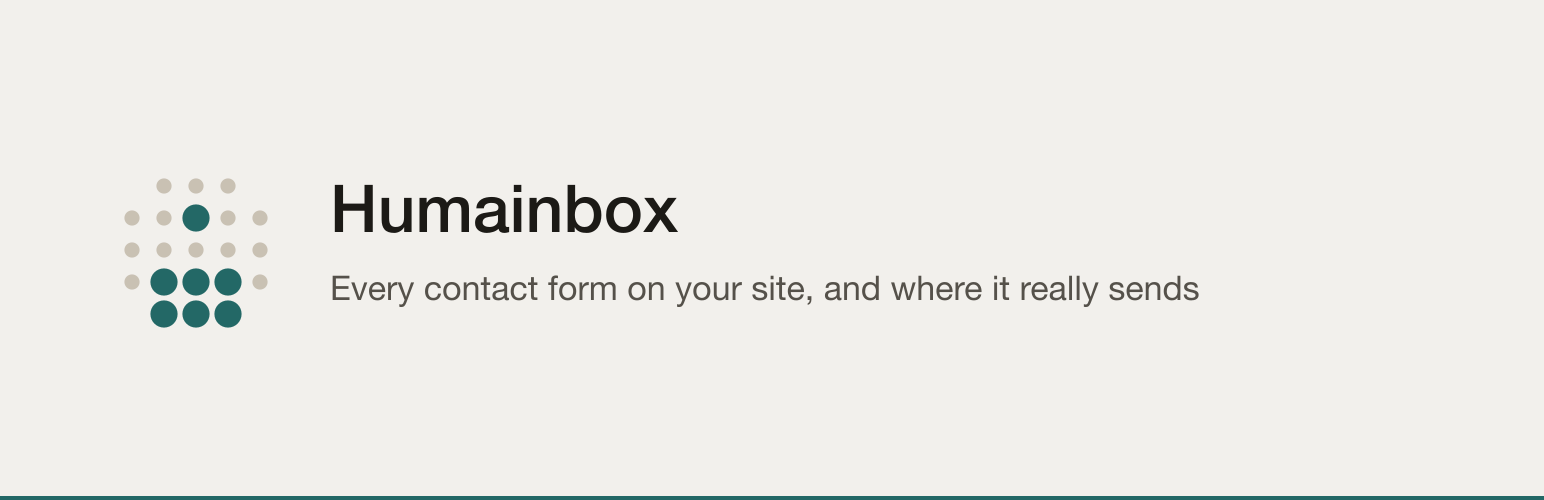
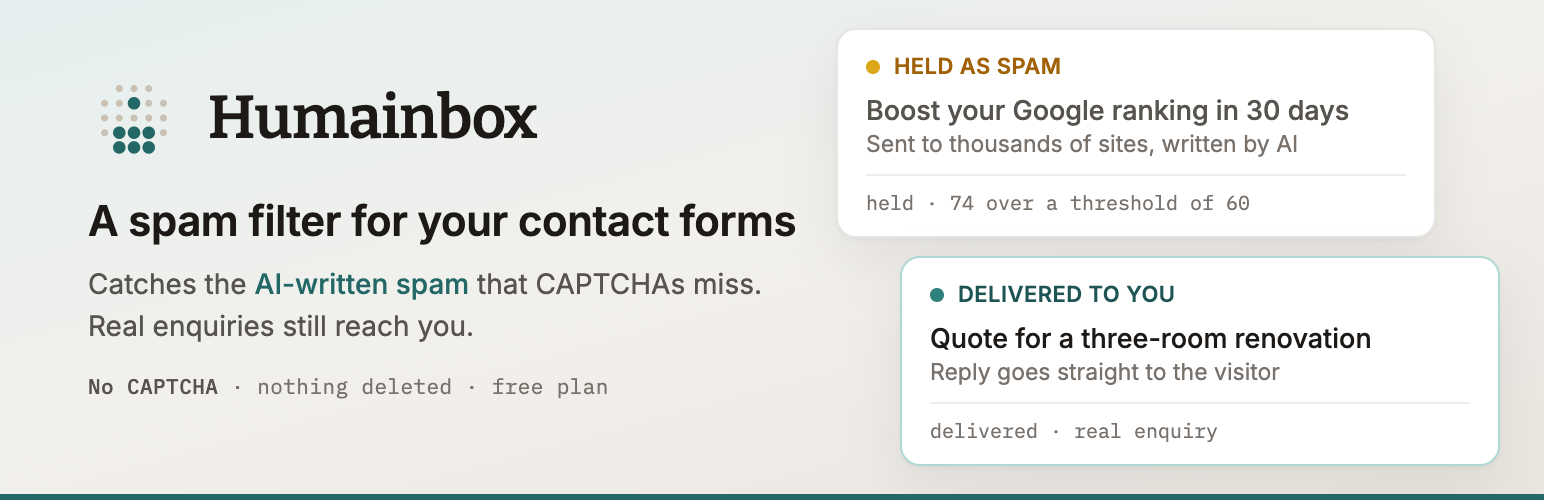
feat: release 1.0.1 with search-friendly name and listing artwork
- List the plugin as "Humainbox – AI Spam Filter for Contact Forms" so the
  directory search finds it; the slug stays humainbox.
- Fix the forms table layout: fixed column widths, so inbox addresses and
  status labels no longer wrap or overflow on smaller screens.
- Add four screenshots and a new banner that says what the plugin is to
  someone who has never heard of Humainbox. Banner source is kept in
  bin/artwork/banner.html (excluded from the build).
- Add a Screenshots section and the 1.0.1 changelog to the readme.

diff --git a/bin/artwork/banner.html b/bin/artwork/banner.html
@@ -1,0 +1,82 @@
+<!doctype html>
+<html><head><meta charset="utf-8">
+<link href="https://fonts.bunny.net/css?family=bitter:600|ibm-plex-mono:400,500|inter:400,500,600&display=block" rel="stylesheet">
+<style>
+  * { box-sizing: border-box; margin: 0; padding: 0; }
+  html, body { width: 772px; height: 250px; overflow: hidden; }
+  body {
+    position: relative;
+    font-family: Inter, sans-serif;
+    color: #1c1917;
+    /* The site's wash-tint, the ground of its own hero. */
+    background: linear-gradient(165deg, rgba(47,129,125,0.12) 0%, #f2f0ec 50%, #e9e6e0 100%);
+  }
+  body::after { content: ""; position: absolute; left: 0; right: 0; bottom: 0; height: 3px; background: #236866; }
+
+  .brand { position: absolute; left: 44px; top: 36px; width: 360px; }
+  .lockup { display: flex; align-items: center; gap: 14px; }
+  .lockup svg { flex: 0 0 auto; }
+  .word { font-family: Bitter, serif; font-weight: 600; font-size: 30px; letter-spacing: -0.01em; color: #1c1917; }
+  .tag { margin-top: 16px; font-size: 21px; line-height: 1.25; font-weight: 600; color: #1c1917; letter-spacing: -0.01em; }
+  .sub { margin-top: 8px; font-size: 14px; line-height: 1.45; color: #57534e; }
+  .sub em { font-style: normal; font-weight: 500; color: #236866; }
+    .meta { margin-top: 13px; font-family: "IBM Plex Mono", monospace; font-size: 10.5px; color: #78716c; letter-spacing: 0.02em; }
+  .meta b { font-weight: 500; color: #57534e; }
+
+  .card {
+    position: absolute; width: 300px; padding: 11px 14px 10px;
+    background: #fff; border: 1px solid #e7e5e4; border-radius: 10px;
+    box-shadow: 0 1px 2px rgba(28,25,23,.04), 0 10px 28px rgba(28,25,23,.08);
+  }
+  .card .row { display: flex; align-items: center; gap: 7px; font-size: 11px; font-weight: 600; letter-spacing: 0.02em; }
+  .dot { width: 7px; height: 7px; border-radius: 50%; }
+  .subject { margin-top: 7px; font-size: 13.5px; font-weight: 500; color: #1c1917; }
+  .from { margin-top: 2px; font-size: 11.5px; color: #78716c; }
+  .why { margin-top: 8px; padding-top: 7px; border-top: 1px solid #f0eeec; font-family: "IBM Plex Mono", monospace; font-size: 10px; color: #78716c; }
+
+  .held { left: 418px; top: 14px; }
+  .held .row { color: #a16207; }
+  .held .dot { background: #dba617; }
+  .held .subject { color: #57534e; }
+
+  .through { left: 450px; top: 128px; border-color: #aed8d3; }
+  .through .row { color: #1e5453; }
+  .through .dot { background: #2f817d; }
+</style></head>
+<body>
+  <div class="brand">
+    <div class="lockup">
+      <svg width="46" height="46" viewBox="0 0 100 100" aria-hidden="true">
+        <g fill="#C9C1B3">
+          <circle cx="34" cy="18" r="3.8"/><circle cx="50" cy="18" r="3.8"/><circle cx="66" cy="18" r="3.8"/>
+          <circle cx="18" cy="34" r="3.8"/><circle cx="34" cy="34" r="3.8"/><circle cx="66" cy="34" r="3.8"/><circle cx="82" cy="34" r="3.8"/>
+          <circle cx="18" cy="50" r="3.8"/><circle cx="34" cy="50" r="3.8"/><circle cx="50" cy="50" r="3.8"/><circle cx="66" cy="50" r="3.8"/><circle cx="82" cy="50" r="3.8"/>
+          <circle cx="18" cy="66" r="3.8"/><circle cx="82" cy="66" r="3.8"/>
+        </g>
+        <g fill="#236866">
+          <circle cx="50" cy="34" r="6.8"/>
+          <circle cx="34" cy="66" r="6.8"/><circle cx="50" cy="66" r="6.8"/><circle cx="66" cy="66" r="6.8"/>
+          <circle cx="34" cy="82" r="6.8"/><circle cx="50" cy="82" r="6.8"/><circle cx="66" cy="82" r="6.8"/>
+        </g>
+      </svg>
+      <span class="word">Humainbox</span>
+    </div>
+    <p class="tag">A spam filter for your contact forms</p>
+    <p class="sub">Catches the <em>AI-written spam</em> that CAPTCHAs miss.<br>Real enquiries still reach you.</p>
+    <p class="meta"><b>No CAPTCHA</b> · nothing deleted · free plan</p>
+  </div>
+
+  <div class="card held">
+    <div class="row"><span class="dot"></span>HELD AS SPAM</div>
+    <p class="subject">Boost your Google ranking in 30 days</p>
+    <p class="from">Sent to thousands of sites, written by AI</p>
+    <p class="why">held · 74 over a threshold of 60</p>
+  </div>
+
+  <div class="card through">
+    <div class="row"><span class="dot"></span>DELIVERED TO YOU</div>
+    <p class="subject">Quote for a three-room renovation</p>
+    <p class="from">Reply goes straight to the visitor</p>
+    <p class="why">delivered · real enquiry</p>
+  </div>
+</body></html>

diff --git a/admin/css/settings.css b/admin/css/settings.css
@@ -218,3 +218,22 @@
 
 /* Connect and restore, side by side under the tables they act on. */
 .humainbox-actions .button + .button { margin-left: .5em; }
+
+/* ── The forms table ───────────────────────────────────────────────────────────
+   ⚠ FIXED COLUMNS. With automatic layout every table sized itself to its own
+   content: the CF7 and WPForms tables had different columns, an inbox address
+   broke mid-word ("northfield- / k3x9…") and "Cannot change here" wrapped onto two
+   lines on any screen narrower than a wide monitor. */
+.humainbox-forms { table-layout: fixed; }
+/* The form column takes what is left; the status column is sized to its longest
+   label ("Cannot change here") so it can never be the one that gets squeezed. */
+.humainbox-forms thead th:nth-child(3) { width: 30%; }
+.humainbox-forms thead th:nth-child(4) { width: 25%; }
+.humainbox-forms thead th:nth-child(5) { width: 11.5em; }
+.humainbox-forms td:last-child { white-space: nowrap; }
+.humainbox-forms code { font-size: 12px; overflow-wrap: anywhere; }
+
+@media screen and (max-width: 782px) {
+	.humainbox-forms { table-layout: auto; }
+	.humainbox-forms td:last-child { white-space: normal; }
+}

diff --git a/humainbox.php b/humainbox.php
@@ -1,9 +1,9 @@
 <?php
 /**
- * Plugin Name:       Humainbox
+ * Plugin Name:       Humainbox – AI Spam Filter for Contact Forms
  * Plugin URI:        https://humainbox.com/integrations
  * Description:       Stop contact form spam, including AI-written messages, without a CAPTCHA. Connects Contact Form 7, WPForms and Gravity Forms to Humainbox, and can put every form back.
- * Version:           1.0.0
+ * Version:           1.0.1
  * Requires at least: 6.2
  * Requires PHP:      7.4
  * Author:            Reaktör Teknoloji
@@ -72,7 +72,7 @@ if ( ! defined( 'ABSPATH' ) ) {
  * @link https://developer.wordpress.org/plugins/wordpress-org/detailed-plugin-guidelines/
  */
 
-define( 'HUMAINBOX_VERSION', '1.0.0' );
+define( 'HUMAINBOX_VERSION', '1.0.1' );
 define( 'HUMAINBOX_FILE', __FILE__ );
 define( 'HUMAINBOX_PATH', plugin_dir_path( __FILE__ ) );
 
